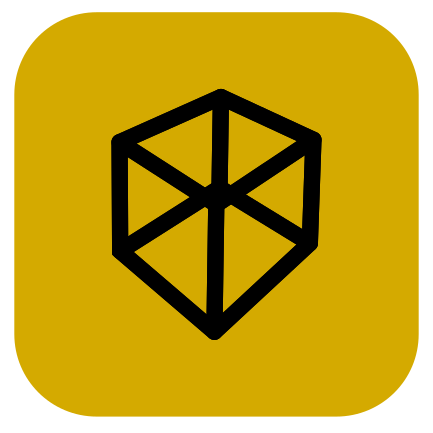
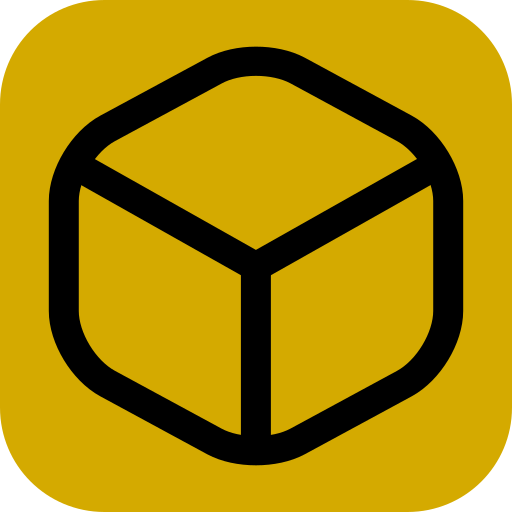
fav update

diff --git a/public/index.html b/public/index.html
@@ -2,7 +2,7 @@
 <html lang="en">
   <head>
     <meta charset="utf-8" />
-    <link rel="icon" href="%PUBLIC_URL%/favicon.ico" />
+    <link rel="icon" href="%PUBLIC_URL%/favicon.svg" />
     <meta name="viewport" content="width=device-width, initial-scale=1" />
     <meta name="theme-color" content="#000000" />
     <meta
@@ -12,7 +12,7 @@
     <!-- Start of HubSpot Embed Code -->
   <script type="text/javascript" id="hs-script-loader" async defer src="//js-eu1.hs-scripts.com/27078167.js"></script>
   <!-- End of HubSpot Embed Code -->
-    <link rel="apple-touch-icon" href="%PUBLIC_URL%/icon-128.png" />
+    <link rel="apple-touch-icon" href="%PUBLIC_URL%/icon_256.png" />
     <!--
       manifest.json provides metadata used when your web app is installed on a
       user's mobile device or desktop. See https://developers.google.com/web/fundamentals/web-app-manifest/
